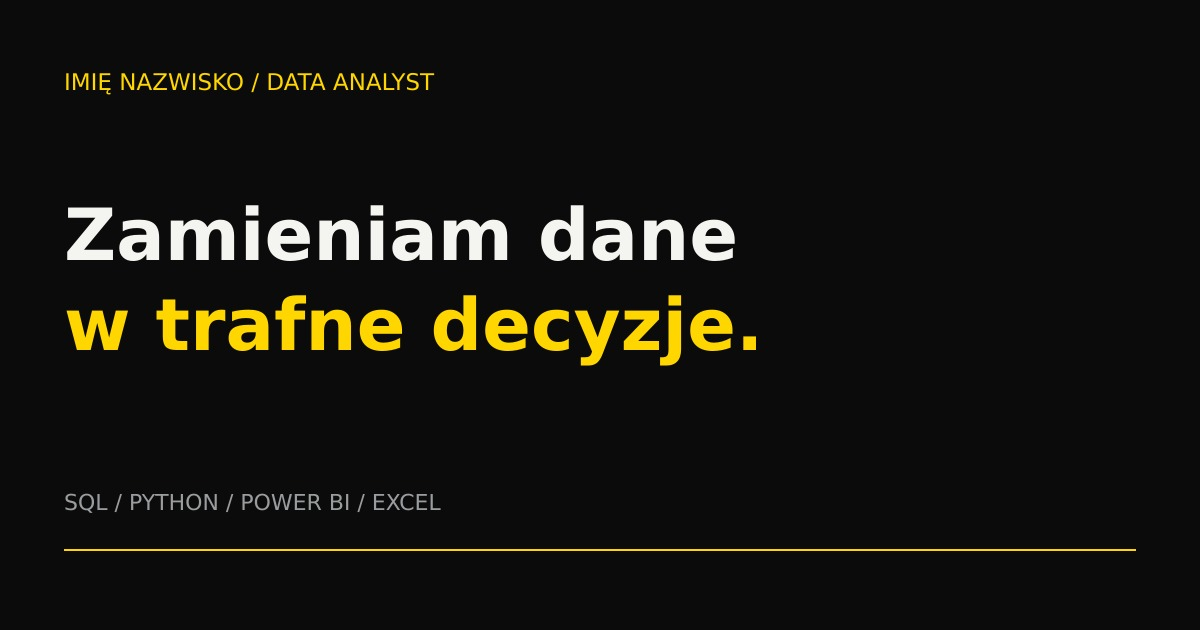
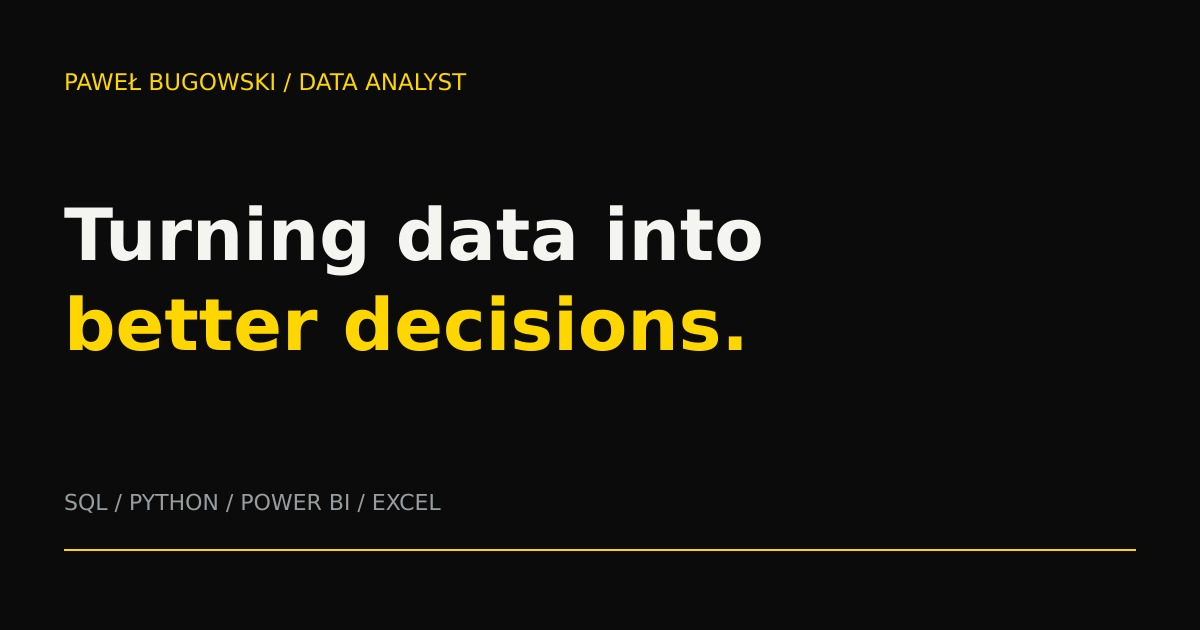
Add files via upload

Changed region(s): [[0.0308, 0.4524, 0.6475, 0.573], [0.0308, 0.3317, 0.6475, 0.4524], [0.0617, 0.0905, 0.4008, 0.1508]]

diff --git a/assets/js/content.js b/assets/js/content.js
@@ -1,27 +1,16 @@
-/* PROFILE CONTENT
- * This is the single source of truth for profile data and project information.
- * Load this file before site.js. Keep the window.PORTFOLIO property name.
- * Use full https:// URLs for external links; leave optional links empty.
- * For a CV, add the PDF and set cv to its relative path, e.g. assets/documents/cv.pdf.
- * Keep the spelling and capitalization of existing asset paths.
- * Demo flags are preserved. Set demo to false when each project is ready for publication.
- * Add your actual responsibilities in the experience description below.
- * Names of people, institutions and places retain their original spelling.
- */
-/* PROJECT BUTTONS
- * url: live Power BI report URL (existing links are preserved).
- * codeUrl: SQL file or repository URL for each project.
- * reportVideoUrl: video discussing the featured Power BI report.
- * sqlVideoUrl: video discussing the featured SQL code.
- * Empty links display disabled buttons marked Coming soon.
- * The first project is the featured project and has all four buttons.
+/* Edit your profile, project links and qualifications here.
+ * Empty SQL/video links show disabled Coming soon buttons.
+ * Add your portrait under assets/images/ and update photo and photoAlt.
+ * Add your CV PDF and update cv to show the download link.
+ * Add a description of your responsibilities to experience[].description.
+ * Demo flags preserve the existing portfolio labels.
  */
 window.PORTFOLIO = {
   "name": "Paweł Bugowski",
   "role": "Data Analyst",
   "about": "I combine analytical thinking with business understanding. I turn complex data into clear insights that support better decisions.",
-  "photo": "assets/images/autor.png",
-  "photoAlt": "Paweł Bugowski — Data Analyst",
+  "photo": "assets/images/avatar-placeholder.svg",
+  "photoAlt": "Profile photo placeholder for Paweł Bugowski",
   "email": "pbugowski96@gmail.com",
   "linkedin": "https://www.linkedin.com/in/pawelbugowski/",
   "github": "https://github.com/PBugowski",
@@ -52,94 +41,112 @@ window.PORTFOLIO = {
     {
       "title": "NYC Accidents 2020",
       "demo": true,
-      "description": "An interactive Power BI report exploring New York City accidents in 2020.",
+      "description": "Exploring New York City traffic accidents in 2020: when and where collisions occur, who is affected, and which factors contribute to injuries.",
       "tools": [
         "SQL",
         "Power BI"
       ],
       "url": "https://app.powerbi.com/view?r=eyJrIjoiOWIzYWE4NGYtZmI1OS00MWU1LThmYzktZDI4M2UwYmE3YmI0IiwidCI6ImE0ZmE1ZWNhLTdhM2YtNDRhYS04ZTI4LTc2MjBhMzk0NjEwZiJ9",
       "codeUrl": "",
-      "cover": "assets/projects/sales/cover.webp",
-      "coverAlt": "NYC Accidents 2020 — cover image",
+      "cover": "assets/projects/nyc-accidents/cover.webp",
+      "coverAlt": "NYC Accidents: Executive Overview",
       "gallery": [
         {
-          "src": "assets/projects/sales/gallery-01.webp",
-          "thumb": "assets/projects/sales/gallery-01-thumb.webp",
-          "alt": "NYC Accidents 2020 — dashboard screenshot 1"
+          "src": "assets/projects/nyc-accidents/gallery-01.webp",
+          "thumb": "assets/projects/nyc-accidents/gallery-01-thumb.webp",
+          "alt": "NYC Accidents: Accidents over Time",
+          "title": "Accidents over Time"
         },
         {
-          "src": "assets/projects/sales/gallery-02.webp",
-          "thumb": "assets/projects/sales/gallery-02-thumb.webp",
-          "alt": "NYC Accidents 2020 — dashboard screenshot 2"
+          "src": "assets/projects/nyc-accidents/gallery-02.webp",
+          "thumb": "assets/projects/nyc-accidents/gallery-02-thumb.webp",
+          "alt": "NYC Accidents: Accident Locations",
+          "title": "Accident Locations"
         },
         {
-          "src": "assets/projects/sales/gallery-03.webp",
-          "thumb": "assets/projects/sales/gallery-03-thumb.webp",
-          "alt": "NYC Accidents 2020 — dashboard screenshot 3"
+          "src": "assets/projects/nyc-accidents/gallery-03.webp",
+          "thumb": "assets/projects/nyc-accidents/gallery-03-thumb.webp",
+          "alt": "NYC Accidents: Accidents with Injuries",
+          "title": "Accidents with Injuries"
         }
       ],
       "reportVideoUrl": "",
-      "sqlVideoUrl": ""
+      "sqlVideoUrl": "",
+      "coverTitle": "Executive Overview",
+      "coverWidth": 1363,
+      "coverHeight": 767
     },
     {
-      "title": "KajoDataSpace transactions for 2023 - 2026",
+      "title": "KajoDataSpace Transactions",
       "demo": true,
-      "description": "An interactive Power BI report on KajoDataSpace transactions from 2023 to 2026.",
+      "description": "Analyzing subscription transactions from 2023 to 2026, with a focus on revenue, pricing changes, customer growth and cohort retention.",
       "tools": [
         "SQL",
         "Power BI"
       ],
       "url": "https://app.powerbi.com/view?r=eyJrIjoiNGZjYmEwMDgtZGJhMS00ZGZjLWEyOWUtZDc3MmE0MmU0MzQ1IiwidCI6ImE0ZmE1ZWNhLTdhM2YtNDRhYS04ZTI4LTc2MjBhMzk0NjEwZiJ9",
       "codeUrl": "",
-      "cover": "assets/projects/customers/cover.webp",
-      "coverAlt": "KajoDataSpace transactions for 2023 - 2026 — cover image",
+      "cover": "assets/projects/kajodataspace-transactions/cover.webp",
+      "coverAlt": "KajoDataSpace Transactions: Executive Overview",
       "gallery": [
         {
-          "src": "assets/projects/customers/gallery-01.webp",
-          "thumb": "assets/projects/customers/gallery-01-thumb.webp",
-          "alt": "KajoDataSpace transactions for 2023 - 2026 — dashboard screenshot 1"
+          "src": "assets/projects/kajodataspace-transactions/gallery-01.webp",
+          "thumb": "assets/projects/kajodataspace-transactions/gallery-01-thumb.webp",
+          "alt": "KajoDataSpace Transactions: Revenue and Discounts",
+          "title": "Revenue and Discounts"
         },
         {
-          "src": "assets/projects/customers/gallery-02.webp",
-          "thumb": "assets/projects/customers/gallery-02-thumb.webp",
-          "alt": "KajoDataSpace transactions for 2023 - 2026 — dashboard screenshot 2"
+          "src": "assets/projects/kajodataspace-transactions/gallery-02.webp",
+          "thumb": "assets/projects/kajodataspace-transactions/gallery-02-thumb.webp",
+          "alt": "KajoDataSpace Transactions: Customer Growth",
+          "title": "Customer Growth"
         },
         {
-          "src": "assets/projects/customers/gallery-03.webp",
-          "thumb": "assets/projects/customers/gallery-03-thumb.webp",
-          "alt": "KajoDataSpace transactions for 2023 - 2026 — dashboard screenshot 3"
+          "src": "assets/projects/kajodataspace-transactions/gallery-03.webp",
+          "thumb": "assets/projects/kajodataspace-transactions/gallery-03-thumb.webp",
+          "alt": "KajoDataSpace Transactions: Customer Cohort Retention",
+          "title": "Customer Cohort Retention"
         }
-      ]
+      ],
+      "coverTitle": "Executive Overview",
+      "coverWidth": 1363,
+      "coverHeight": 767
     },
     {
-      "title": "Toys distribution in Mexico",
+      "title": "Maven Toys — Sales & Inventory",
       "demo": true,
-      "description": "An interactive Power BI report on toy distribution in Mexico.",
+      "description": "Exploring sales and inventory across a toy retail business in Mexico: revenue drivers, product profitability and stock levels by category and location.",
       "tools": [
         "SQL",
         "Power BI"
       ],
       "url": "https://app.powerbi.com/view?r=eyJrIjoiNjZmM2I0Y2QtNmYzMC00ODE4LWJiOTQtZDQzODA5MmIzN2Q0IiwidCI6ImE0ZmE1ZWNhLTdhM2YtNDRhYS04ZTI4LTc2MjBhMzk0NjEwZiJ9",
       "codeUrl": "",
-      "cover": "assets/projects/Maven/a1.png",
-      "coverAlt": "Toys distribution in Mexico — cover image",
+      "cover": "assets/projects/maven-toys/cover.webp",
+      "coverAlt": "Maven Toys: Sales and Inventory Overview",
       "gallery": [
         {
-          "src": "assets/projects/Maven/a2.png",
-          "thumb": "assets/projects/Maven/a2.png",
-          "alt": "Toys distribution in Mexico — dashboard screenshot 1"
+          "src": "assets/projects/maven-toys/gallery-01.webp",
+          "thumb": "assets/projects/maven-toys/gallery-01-thumb.webp",
+          "alt": "Maven Toys: Revenue Analysis",
+          "title": "Revenue Analysis"
         },
         {
-          "src": "assets/projects/Maven/a3.png",
-          "thumb": "assets/projects/Maven/a3.png",
-          "alt": "Toys distribution in Mexico — dashboard screenshot 2"
+          "src": "assets/projects/maven-toys/gallery-02.webp",
+          "thumb": "assets/projects/maven-toys/gallery-02-thumb.webp",
+          "alt": "Maven Toys: Profit Analysis",
+          "title": "Profit Analysis"
         },
         {
-          "src": "assets/projects/Maven/a4.png",
-          "thumb": "assets/projects/Maven/a4.png",
-          "alt": "Toys distribution in Mexico — dashboard screenshot 3"
+          "src": "assets/projects/maven-toys/gallery-03.webp",
+          "thumb": "assets/projects/maven-toys/gallery-03-thumb.webp",
+          "alt": "Maven Toys: Inventory Levels",
+          "title": "Inventory Levels"
         }
-      ]
+      ],
+      "coverTitle": "Sales and Inventory Overview",
+      "coverWidth": 1352,
+      "coverHeight": 767
     }
   ],
   "experience": [
@@ -147,7 +154,7 @@ window.PORTFOLIO = {
       "title": "Process Engineer",
       "organization": "PRODMAX SP. Z O.O.",
       "period": "2020 - Present",
-      "description": "Describe your responsibilities, the tools you used and a specific outcome of your work."
+      "description": ""
     }
   ],
   "education": [

diff --git a/assets/js/site.js b/assets/js/site.js
@@ -70,15 +70,15 @@
     const gallery = Array.isArray(project.gallery) ? project.gallery : [];
     return `<article class="project-card ${index === 0 ? 'project-card--featured' : ''}">
       <button type="button" class="project-image-button" data-project="${index}" data-image="0" aria-label="Open project cover: ${escape(project.title)}">
-        <img src="${escape(fileLink(project.cover))}" width="1600" height="1000" alt="${escape(project.coverAlt)}" loading="lazy"><span class="image-hint">${icon('zoom')}</span>
+        <img src="${escape(fileLink(project.cover))}" width="${project.coverWidth || 1363}" height="${project.coverHeight || 767}" alt="${escape(project.coverAlt)}" loading="lazy"><span class="image-hint">${icon('zoom')}</span>
       </button>
-      ${gallery.length ? `<div class="gallery-block"><p class="gallery-label">Project gallery</p><div class="gallery-thumbnails">${gallery.map((image, imageIndex) => `<button type="button" data-project="${index}" data-image="${imageIndex + 1}" aria-label="Open: ${escape(image.alt)}"><img src="${escape(fileLink(image.thumb || image.src))}" width="480" height="300" alt="${escape(image.alt)}" loading="lazy"></button>`).join('')}</div></div>` : ''}
+      ${gallery.length ? `<div class="gallery-block"><p class="gallery-label">Explore the report · ${gallery.length} views</p><div class="gallery-thumbnails">${gallery.map((image, imageIndex) => `<button type="button" data-project="${index}" data-image="${imageIndex + 1}" aria-label="Open: ${escape(image.alt)}"><img src="${escape(fileLink(image.thumb || image.src))}" width="480" height="270" alt="${escape(image.alt)}" loading="lazy"><span class="gallery-thumb-caption">${escape(image.title || image.alt)}</span></button>`).join('')}</div></div>` : ''}
       <div class="project-content">${project.demo ? '<p class="demo-note">Demo project</p>' : ''}<h3>${escape(project.title)}</h3><p>${escape(project.description)}</p><div class="tool-tags">${(project.tools || []).map(tool => `<span class="tool-tag">${escape(tool)}</span>`).join('')}</div>
       <div class="project-actions">${projectActions(project, index)}</div></div></article>`;
   }).join('');
 
   $('#skills-grid').innerHTML = (data.skills || []).map(skill => `<article class="skill-card">${icon(skill.icon)}<h3>${escape(skill.name)}</h3><p>${escape(skill.description)}</p></article>`).join('');
-  $('#experience-list').innerHTML = (data.experience || []).map(job => `<li><h4>${escape(job.title)}</h4><p class="career-meta">${escape(job.organization)}<br>${escape(job.period)}</p><p class="career-description">${escape(job.description)}</p></li>`).join('') || '<li><p class="career-description">Details coming soon.</p></li>';
+  $('#experience-list').innerHTML = (data.experience || []).map(job => `<li><h4>${escape(job.title)}</h4><p class="career-meta">${escape(job.organization)}<br>${escape(job.period)}</p>${job.description ? `<p class="career-description">${escape(job.description)}</p>` : ""}</li>`).join('') || '<li><p class="career-description">Details coming soon.</p></li>';
   function qualifications(items, target, symbol) {
     const render = item => {
       const url = webLink(item.url);
@@ -135,13 +135,14 @@
     const image = currentImages[currentIndex];
     $('#gallery-image').src = fileLink(image.src);
     $('#gallery-image').alt = image.alt;
+    $('#gallery-caption').textContent = image.title || image.alt;
     $('#gallery-counter').textContent = `${currentIndex + 1} / ${currentImages.length}`;
     $('#gallery-original').href = fileLink(image.src);
   }
   function openGallery(projectIndex, imageIndex, button) {
     const project = projects[projectIndex];
     if (!project) return;
-    currentImages = [{src:project.cover, alt:project.coverAlt}, ...(project.gallery || [])];
+    currentImages = [{src:project.cover, alt:project.coverAlt, title:project.coverTitle}, ...(project.gallery || [])];
     opener = button;
     $('#gallery-title').textContent = project.title;
     showImage(imageIndex);

diff --git a/assets/css/portfolio-updates.css b/assets/css/portfolio-updates.css
@@ -80,3 +80,25 @@
   .project-actions .button { padding: 11px 9px; font-size: 11px; }
   .site-footer .footer-wrap { flex-wrap: wrap; }
 }
+
+/* Real report captures: preserve every chart and label. */
+.project-image-button img,.gallery-thumbnails img{aspect-ratio:16/9;object-fit:contain;background:#090a0a}
+.project-card--featured{grid-template-columns:minmax(0,1.65fr) minmax(0,1fr);align-items:start}
+.project-card--featured .gallery-block{grid-column:1;grid-row:2}
+.project-card--featured .project-content{grid-column:2;grid-row:1 / span 2;align-self:center}
+.gallery-label{font-size:12px;margin-bottom:10px}
+.gallery-thumb-caption{display:block;padding:9px 7px;color:#c3c8cb;font-size:11px;line-height:1.5;text-align:left}
+.gallery-thumbnails button{display:flex;flex-direction:column;justify-content:flex-start}
+.gallery-thumbnails button:hover .gallery-thumb-caption{color:#ffd600}
+.gallery-caption{text-align:center;color:#c3c8cb;font-size:13px;margin:14px 0 0}
+.gallery-dialog{width:min(1440px,calc(100% - 32px))}
+.dialog-image-wrap img{max-height:68dvh}
+.brand{font-size:14px}
+:is(#about-me,#portfolio,#skills,#experience) .eyebrow{font-size:13px}
+.site-footer .footer-wrap>span,.site-footer .footer-role{font-size:14px}
+.about-copy p,.project-content p{font-size:14px}
+.skill-card p,.career-description,.career-meta,.qualification p{font-size:12px}
+.qualification h4{font-size:14px}
+.demo-note{font-size:10px!important}
+@media(max-width:780px){.project-card--featured{display:block}.project-card--featured .project-content{padding:24px 5px 5px}.brand{font-size:12px}}
+@media(max-width:560px){.gallery-thumb-caption{font-size:10px;padding:7px 5px}.project-content p{font-size:13px}.project-actions .button{font-size:12px}.site-footer .footer-wrap>span,.site-footer .footer-role{font-size:13px}}
